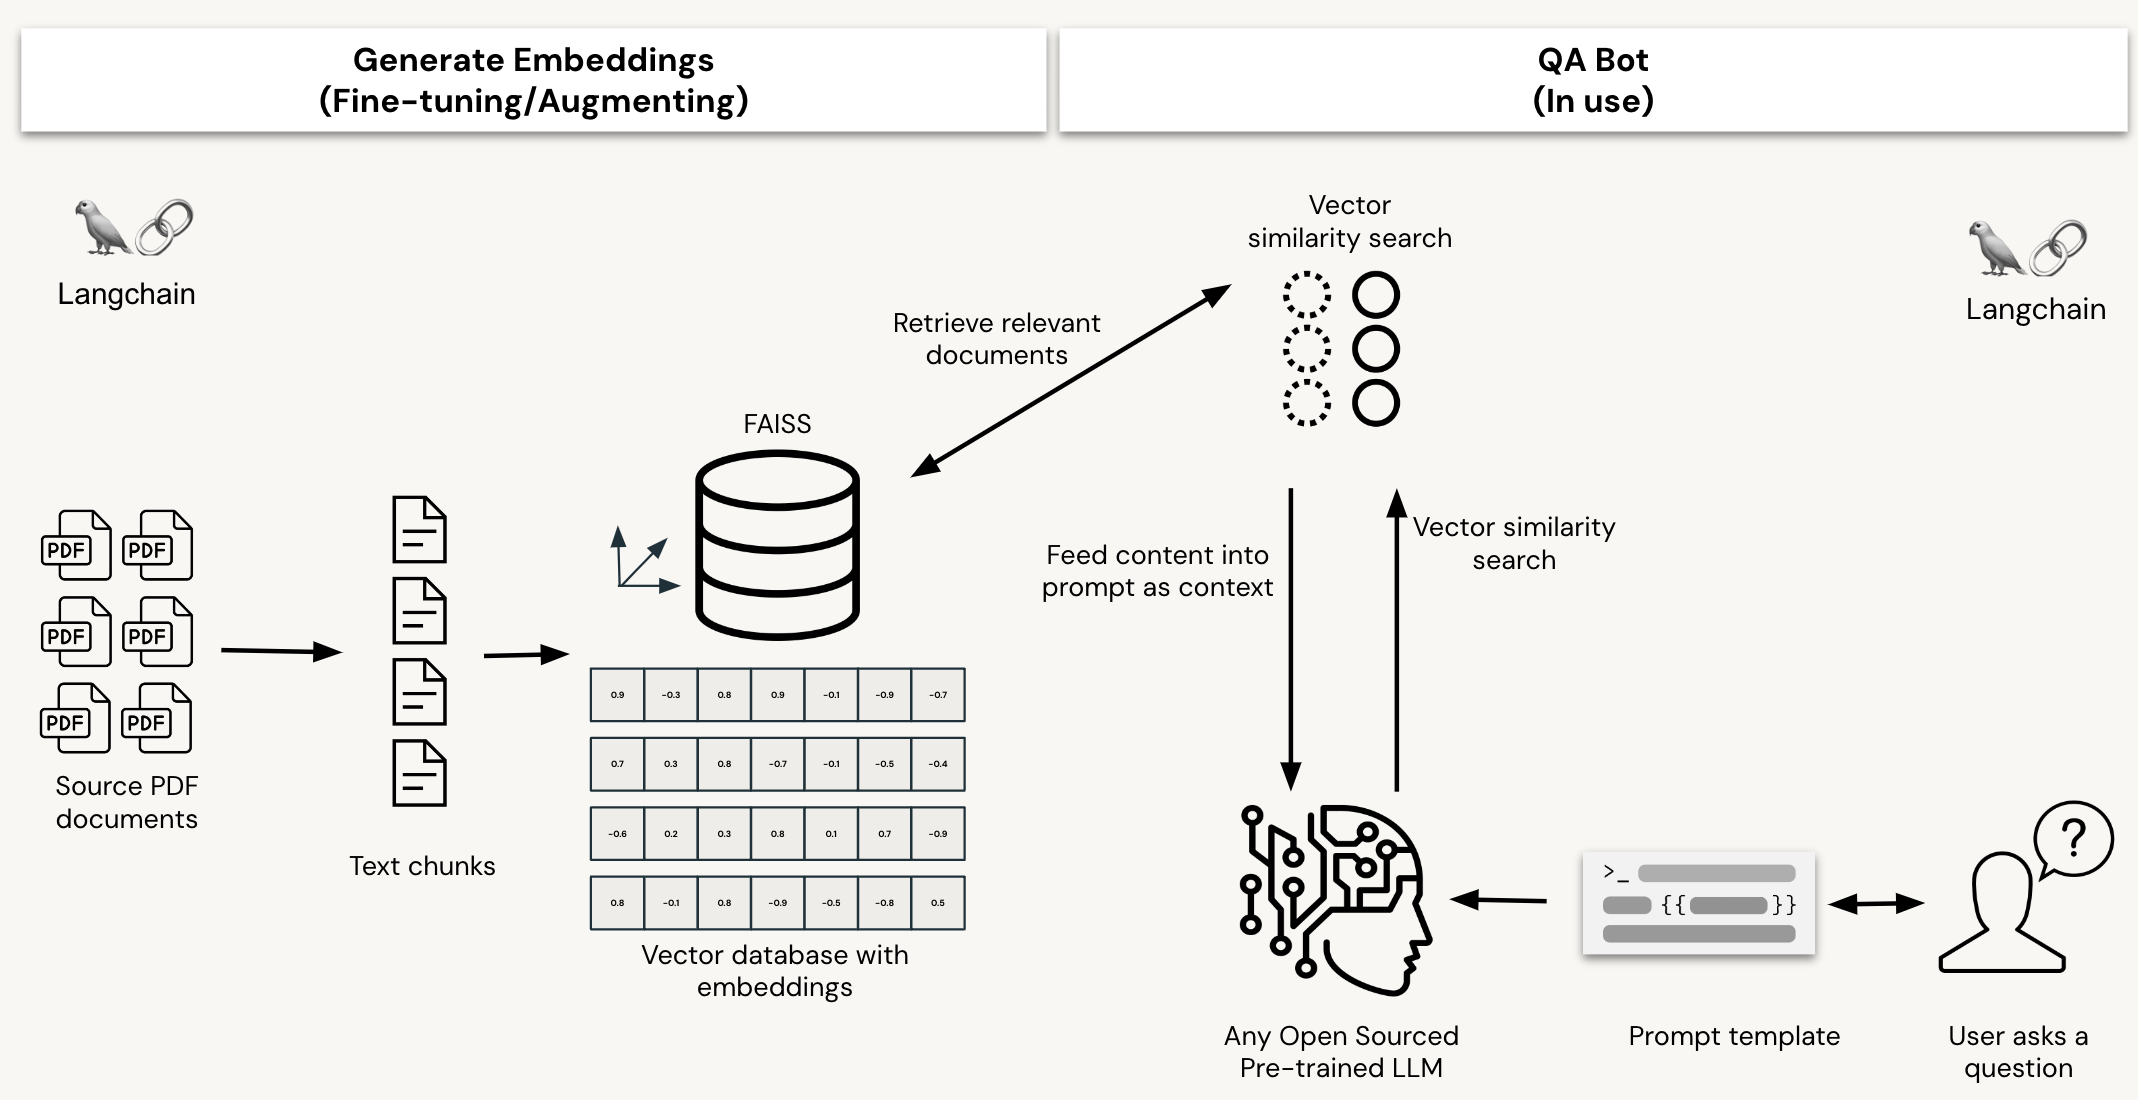
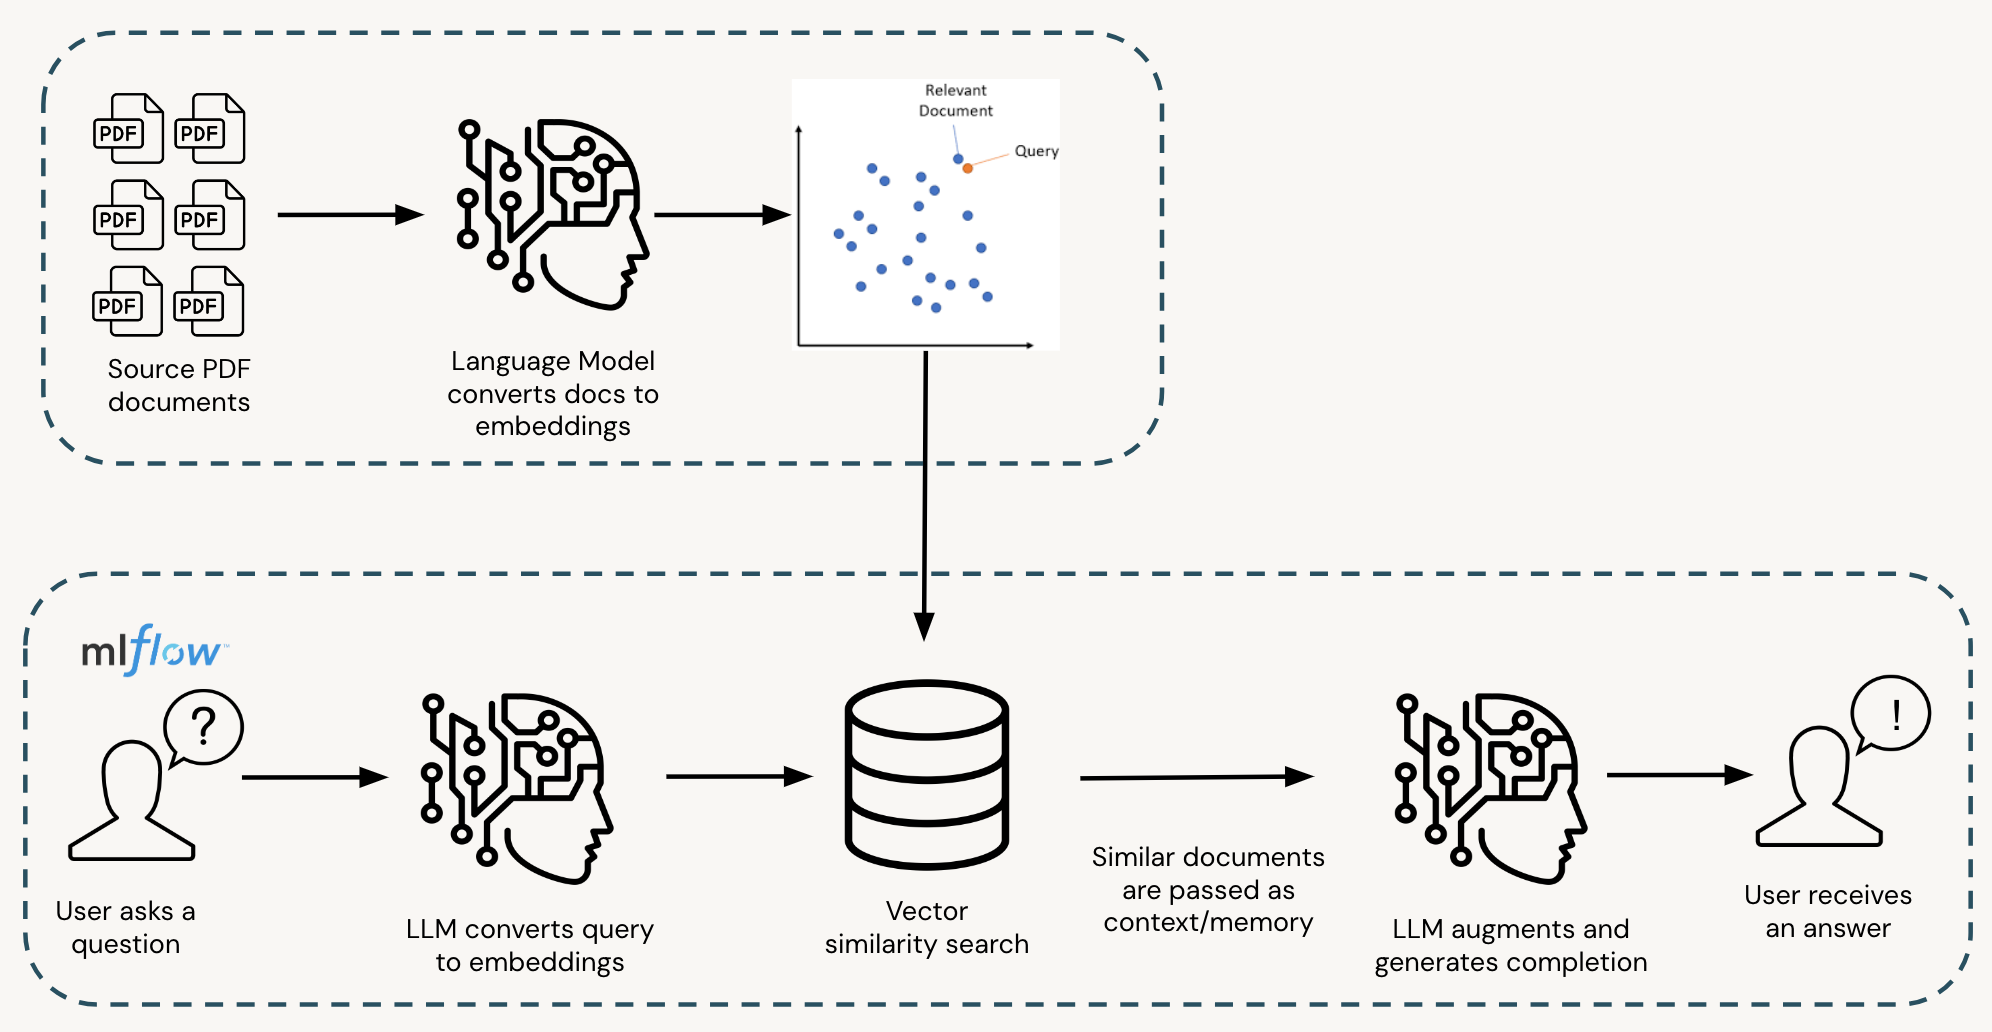
Updating the readme

diff --git a/README.md b/README.md
@@ -4,10 +4,10 @@
 [![POC](https://img.shields.io/badge/POC-10_days-green?style=for-the-badge)](https://databricks.com/try-databricks)
 
 ## Business Problem
-<List of the business use case the solution accelerator address>
+The goal of this solution accelerator is to demonstrate how you can create a QA bot using open sourced models. Due to privacy requirements, many customers can't use propreitary models. This has been designed so that you can easily switch between the newest and best LLMs from Huggingface. 
 
 ## Scope
-<How we expect the user to use this content>
+A customer can easily take this solution accelerator and replace it with a knowledge base of articles (i.e. in PDF format) to replicate the application that's been built. 
 
 ___
 <william.block@databricks.com>,
@@ -24,7 +24,8 @@ ___
 
 | library                                | description             | license    | source                                              |
 |----------------------------------------|-------------------------|------------|-----------------------------------------------------|
-| PyYAML                                 | Reading Yaml files      | MIT        | https://github.com/yaml/pyyaml                      |
+| Langchain                              | Develop LLM applications  | MIT        | https://pypi.org/project/langchain              |
+| Huggingface                                 | Huggingface is a hub LLM apps      | Apache Software License (Apache 2.0)        | https://pypi.org/project/huggingface/            |
 
 ## Getting started
 
@@ -35,9 +36,8 @@ Although specific solutions can be downloaded as .dbc archives from our websites
 To start using a solution accelerator in Databricks simply follow these steps: 
 
 1. Clone solution accelerator repository in Databricks using [Databricks Repos](https://www.databricks.com/product/repos)
-2. Attach the `RUNME` notebook to any cluster and execute the notebook via Run-All. A multi-step-job describing the accelerator pipeline will be created, and the link will be provided. The job configuration is written in the RUNME notebook in json format. 
-3. Execute the multi-step-job to see how the pipeline runs. 
-4. You might want to modify the samples in the solution accelerator to your need, collaborate with other users and run the code samples against your own data. To do so start by changing the Git remote of your repository  to your organization’s repository vs using our samples repository (learn more). You can now commit and push code, collaborate with other user’s via Git and follow your organization’s processes for code development.
+2. Navigate to the /accel folder. The notebooks are organized in this folder for your convenience.
+3. Within /accel/utils, you can edit the types of models you would like to test out from Huggingface. Additionally, you can change the configs here to point to your knowledge base to create your own vector database.
 
 The cost associated with running the accelerator is the user's responsibility.
 
